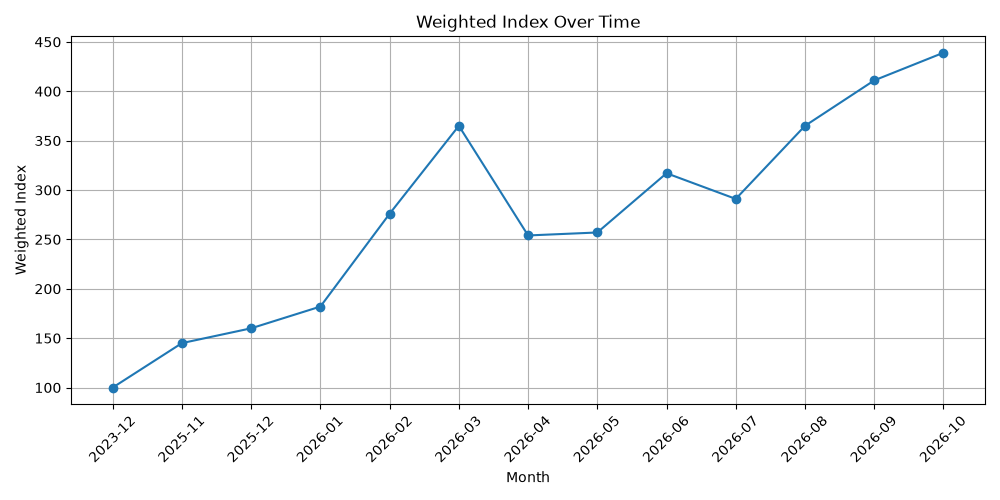
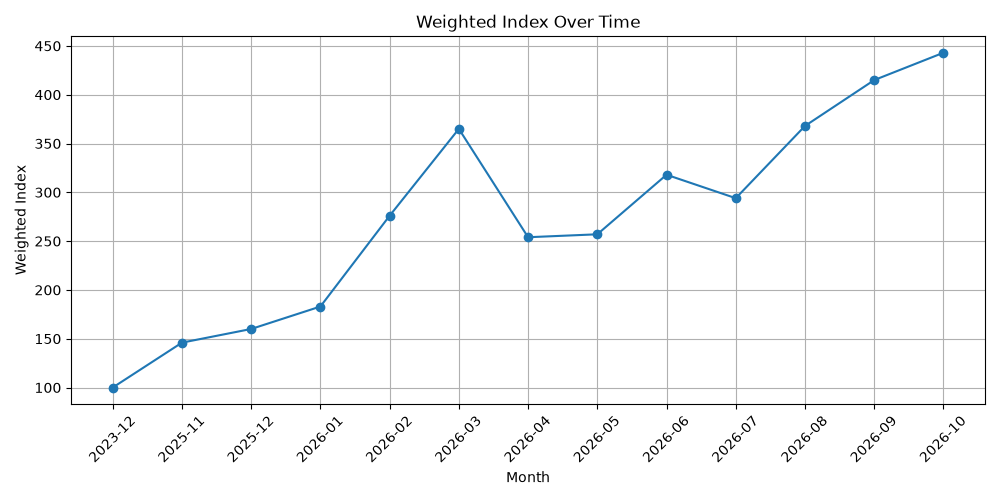
add ecohub_entries to the index, weight 5
Lowers db_engines_score from 10 to 5, so the total stays 100. The Hub did
not exist at the 2023-12 baseline, so create_index.py now takes a fixed
baseline from the weights file: 134, the earliest traceable count (May
2026). Monthly history since May and its sources are in history.md.

October 2026 moves from 439 to 443.

diff --git a/index/create_index.py b/index/create_index.py
@@ -25,10 +25,15 @@ for index, row in weights.iterrows():
     combined_data = combined_data.fillna(0).astype({col: 'int' for col in combined_data.columns if col != 'month'})
 # 3. Calculate index values for each column (excluding 'month') by adding a column _index for each column, and set the baseline to 2023-12
 baseline_date = '2023-12'
+fixed_baselines = weights.set_index('path')['baseline'].dropna()
 for column in combined_data.columns:
     if column != 'month':
         baseline_value = combined_data[combined_data['month'] == baseline_date][column].iloc[0]
-        if baseline_value == 0:
+        if column in fixed_baselines:
+            # Metric did not exist at baseline_date: use the fixed baseline from create_index_weights.csv, and 100 for months without data
+            fixed_baseline = fixed_baselines[column]
+            combined_data[f'{column}_index'] = combined_data[column].apply(lambda x: 100 if x == 0 else x / fixed_baseline * 100)
+        elif baseline_value == 0:
             # If baseline is 0, use 100 as index when current value is also 0, otherwise use the raw value
             combined_data[f'{column}_index'] = combined_data[column].apply(lambda x: 100 if x == 0 else x * 100)
         else:

diff --git a/data/ecohub_entries/history.md b/data/ecohub_entries/history.md
@@ -1,0 +1,36 @@
+# Ecosystem Hub entries before daily collection
+
+Daily collection started on 2026-11-06. The earlier values in `monthly.csv` were worked out afterwards from the snapshots below. All counts use the same visibility filters as `fetch.py`. Each value is the count at the end of the month.
+
+The Hub launched on [2026-03-04](https://mariadb.org/the-queen-of-naboo-and-many-systems-mariadb-ecosystem-hub/). March and April are left out because no count from those months has been found.
+
+## Snapshots
+
+| Date | Entries | Source |
+|------------|-----|---------------------------------------------------------------|
+| 2026-05-13 | 133 | Local export, `adoption-project-repos/ecohub_and_candidates.csv` (not public). All 133 IDs are still in the 14 July snapshot |
+| 2026-07-14 | 146 | [Wayback categories.json](https://web.archive.org/web/20260714143637id_/https://ecohub.mariadb.org/categories.json) and its category files |
+| 2026-08-10 | 187 | Common Crawl CC-MAIN-2026-34: 185 entries. Its copy has no `solution-stacks` file, so the 2 stacks from the July and September snapshots are added |
+| 2026-09-18 | 200 | [Wayback categories.json](https://web.archive.org/web/20260918131054id_/https://ecohub.mariadb.org/categories.json) and its category files |
+| 2026-10-07 | 202 | Local copy, `cia/ecohub/raw/` (not public) |
+| 2026-11-06 | 219 | `daily.csv`, equal to the Hub home page on that day |
+
+## Month-end values
+
+`dateAdded` means the field on each entry in the current catalog. It only covers entries added from July 2026 on, and not all of them, so it can't be used alone.
+
+| Month | Value | Confidence | How |
+|---------|-----|------------|--------------------------------------------------------|
+| 2026-05 | 134 | Lower bound | 133 on 13 May, plus the [first Solution Stack on 15 May](https://mariadb.org/introducing-our-first-mariadb-server-solution-stack-a-privacy-first-stack-with-nextcloud-passbolt-and-mariadb/). Up to 10 more may have been added by 31 May |
+| 2026-06 | 144 | Upper bound | 146 on 14 July, minus `emma` (dated 1 July) and `sovereign-multi-cloud-db-stack` (dated 14 July) |
+| 2026-07 | 181 | Estimate | 187 on 10 August, minus 6 entries dated August. Assumes 27 undated entries, mostly plugins, arrived in July. If they arrived in August, the value is 154 |
+| 2026-08 | 192 | Derived | 200 on 18 September, minus 8 entries added in September. Also 187 on 10 August plus 5 dated August |
+| 2026-09 | 200 | Derived | 200 on 18 September, with no entries dated 19 to 30 September. The 2 entries added by 7 October are dated October |
+| 2026-10 | 217 | Derived | 219 on 6 November, minus 2 dated November. Also 202 on 7 October plus 15 dated October. Matches the 217 in Anna Widenius's table |
+| 2026-11 | 219 | Measured | `daily.csv` |
+
+## Notes
+
+- **July:** the evidence for the plugins arriving in July is indirect. lefred's [plugin list](https://lefred.be/my-mariadb-server-plugins/) was published on 24 July, and on 27 July Anna Widenius described the Hub as "about 200" in a chat. The 14 July snapshot has 32 plugins and the 10 August one has 57.
+- **`layerbase`:** its `dateAdded` is 2029-09-07, treated here as 2026-09-07. It isn't in the 10 August snapshot and is in the 18 September one.
+- **Not used:** a LinkedIn post, seen only in search results, reportedly says 50 products at launch and more than 140 after three months. It couldn't be opened to check.

diff --git a/README.md b/README.md
@@ -20,6 +20,8 @@ The Adoption Index is a weighted average of chosen metrics depciting MariaDB's a
 
 To create the adoption index for the latest month, run the script in [index/create_index.py](index/create_index.py). It will use monthly data stored in ```monthly.csv``` files in the ```data``` folder, and weights defined in [index/create_index_weights.csv](index/create_index_weights.csv).
 
+A metric that did not exist at the baseline has a fixed value in the `baseline` column of the weights file, and counts as 100 in months without data. Ecosystem Hub entries use 134, the earliest traceable count, from May 2026 (see [history.md](data/ecohub_entries/history.md)).
+
 ## Automation to fetch data
 
 The source data that the adoption index is based on, are monthly values in the ```data``` folder. 
